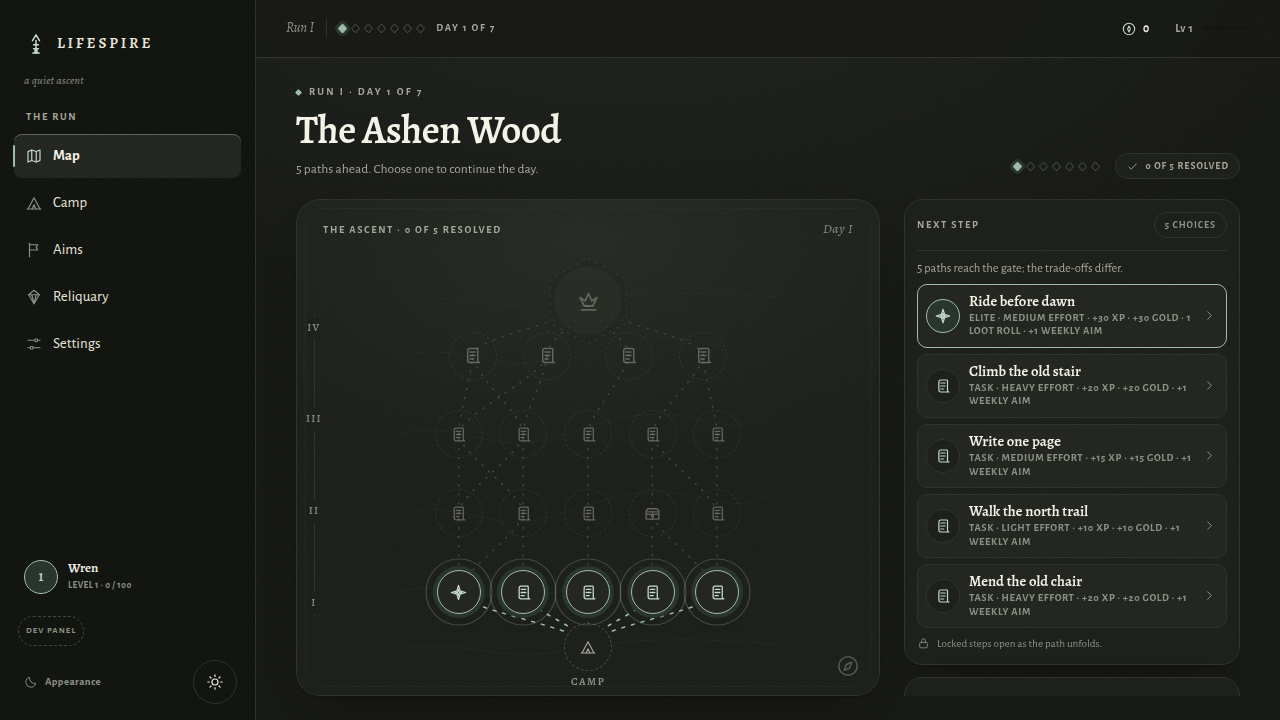
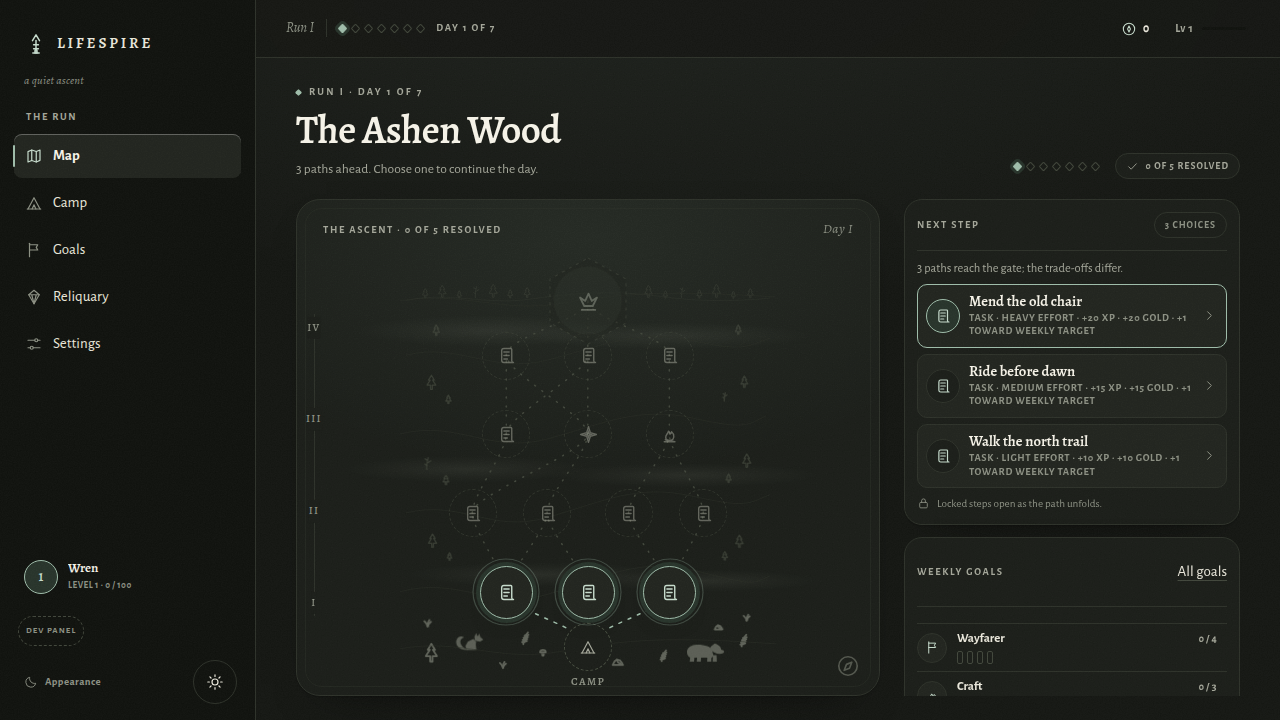
docs(design): document the map forest and refresh the captures
The design system gains a map-backdrop section with the three planes,
their colours and their opacities, and the captures in docs/screenshots
show the wood in both themes and on mobile.

diff --git a/design/DESIGN.md b/design/DESIGN.md
@@ -614,6 +614,15 @@ The system is predominantly flat. Surfaces separate through one hairline and a v
 - Veiled: 1.5px `{colors.hairline-strong}` dashed 1/8.
 - Boss halo: dashed hairline ellipse with `{colors.accent-wash}` fill.
 
+**`map-backdrop`** — The wood that backs the map, drawn inside the map SVG behind the contours and the paths.
+- Three depth planes, all in stone. The forest never uses moss: depth comes from size and opacity, not from colour.
+- Far plane: a ridge line with a dense treeline of small pines and birches, `{colors.hairline-strong}` at 45%, 1px stroke. A deliberate clearing is left around the boss gate.
+- Mid plane: pines and birches along the margins and in the gaps between node rows, `{colors.hairline-strong}` at 75%, 1.3px stroke.
+- Near plane: undergrowth at the bottom of the frame (ferns, grass, stones, a mushroom), `{colors.ink-soft}` at 62%, 1.8px stroke.
+- Fauna: a sitting fox and a walking bear, the only filled shapes in the plate, `{colors.ink-soft}` at 58%. A silhouette reads at map scale where a contour would blur into the undergrowth.
+- Haze: soft radial patches between the planes, `{colors.ink-soft}` at 12% fading to nothing.
+- The plate is decorative: the SVG is `aria-hidden`, it never carries information, and no decoration may touch a medallion, the boss halo or the camp label. The placement rules live in `src/ui/lib/mapDecor.ts` and are asserted in `mapDecor.test.ts`.
+
 ### Chips, Pips, and Signals
 
 **`chip`** — Metadata pill for node type, effort, or state.
